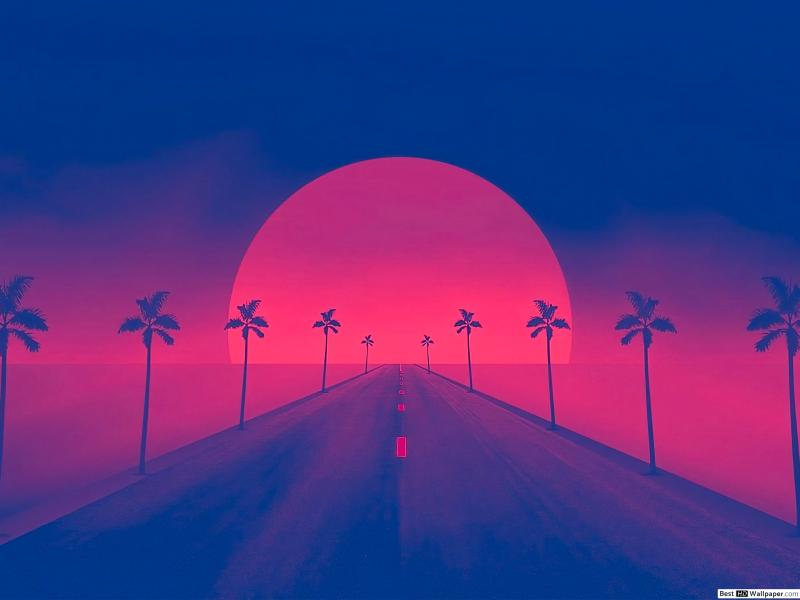
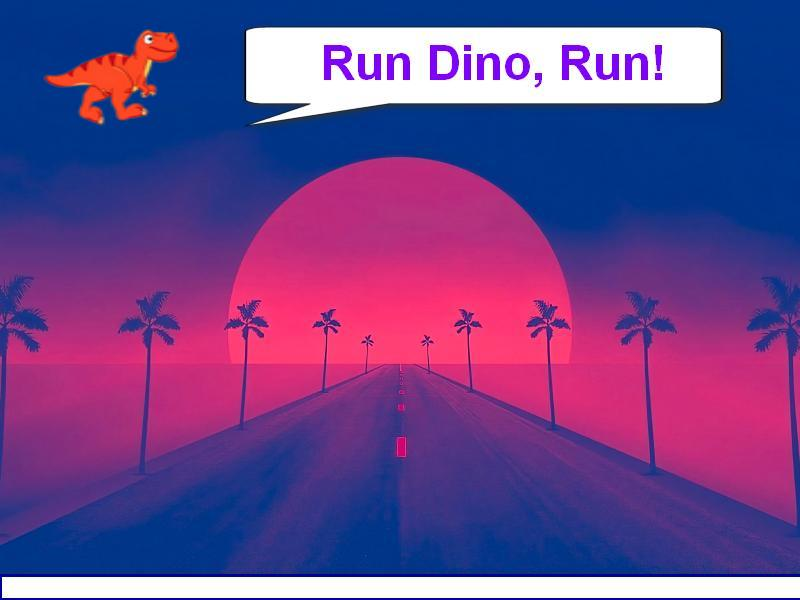
edit button, menu

Changed region(s): [[0.2812, 0.03, 0.9062, 0.21], [0.0, 0.93, 1.0, 1.0], [0.0312, 0.03, 0.25, 0.21]]

diff --git a/DinoGame.py b/DinoGame.py
@@ -65,8 +65,8 @@ class Button:
     def __init__(self, width, height):
         self.width = width
         self.height = height
-        self.inactive_color = (13, 62, 58)
-        self.active_color = (23, 204, 58)
+        self.inactive_clr = (13, 62, 58)
+        self.active_clr = (23, 204, 58)
 
 
     def draw(self, x, y, message, action=None, font_size=30):
@@ -106,9 +106,11 @@ scores = 0
 max_scores = 0
 max_above = 0
 
+
 def show_menu():
     menu_bckgr = pygame.image.load('test_menu.jpg')
-    start_btn = Button(300, 70)
+
+    start_btn = Button(288, 70)
 
     show = True
     while show:
@@ -118,7 +120,10 @@ def show_menu():
                 quit()
 
         display.blit(menu_bckgr, (0, 0))
-        start_btn.draw(300, 200, 'Start game')
+        start_btn.draw(270, 200, 'Start game', None, 50)
+
+        pygame.display.update()
+        clock.tick(60)
 
 
 def game_cycle():
@@ -460,6 +465,7 @@ def hearts_plus(heart):
             radius = display_width + random.randrange(500, 1700)
             heart.return_self(radius, heart.y, heart.width, heart.image)
 
+show_menu()
 
 while game_cycle():
     scores = 0
